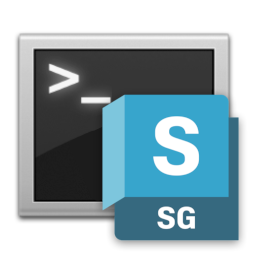
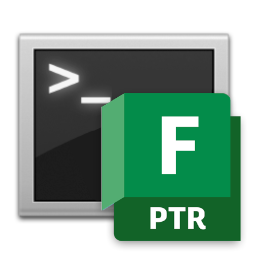
SG-34309 - Rebranding (#28)
* Change all the shotgrid/shotgun occurrences in the repository.

* Change all the SG occurrences in the repository.

* Update logos.

* Update text occurrences.

* Update text.

Changed region(s): [[0.375, 0.3438, 0.9688, 0.9688]]

diff --git a/engine.py b/engine.py
@@ -254,9 +254,10 @@ class ShellEngine(Engine):
             class QTProxy(object):
                 def __getattr__(self, name):
                     raise tank.TankError(
-                        "The SG Toolkit App you are trying to execute requires a full QT "
-                        "environment in order to render its UI. A valid PySide2/PySide/PyQt "
-                        "installation could not be found in your python system path."
+                        "The Flow Production Tracking App you are trying to execute "
+                        "requires a full QT environment in order to render its UI. A valid "
+                        "PySide2/PySide/PyQt installation could not be found in your python "
+                        "system path."
                     )
 
             base = {"qt_core": QTProxy(), "qt_gui": QTProxy(), "dialog_base": None}

diff --git a/SECURITY.md b/SECURITY.md
@@ -4,18 +4,18 @@
 
 At Autodesk, we know that the security of your data is critical to your studio’s
 operation.
-As the industry shifts to the cloud, ShotGrid knows that security and service
+As the industry shifts to the cloud, Flow Production Tracking knows that security and service
 models are more important than ever.
 
 The confidentiality, integrity, and availability of your content is at the top
 of our priority list.
-Not only do we have a team of ShotGrid engineers dedicated to platform security
+Not only do we have a team of Flow Production Tracking engineers dedicated to platform security
 and performance, we are also backed by Autodesk’s security team, also invests
 heavily in the security for broad range of industries and customers.
 We constantly reassess, develop, and improve our risk management program because
 we know that the landscape of security is ever-changing.
 
-If you believe you have found a security vulnerability in any ShotGrid-owned
+If you believe you have found a security vulnerability in any Flow Production Tracking-owned
 repository, please report it to us as described below.
 
 
@@ -32,4 +32,4 @@ configurations, reproduction steps, exploit code, impact, etc.
 
 ## Additional Information
 
-Please check out the [ShotGrid Security White Paper](https://help.autodesk.com/view/SGSUB/ENU/?guid=SG_Administrator_ar_general_security_ar_security_white_paper_html).
+Please check out the [Flow Production Tracking Security White Paper](https://help.autodesk.com/view/SGSUB/ENU/?guid=SG_Administrator_ar_general_security_ar_security_white_paper_html).

diff --git a/README.md b/README.md
@@ -6,11 +6,11 @@
 
 
 ## Documentation
-This repository is a part of the ShotGrid Pipeline Toolkit.
+This repository is a part of the Flow Production Tracking Toolkit.
 
 - For more information about this app and for release notes, *see the wiki section*.
 - For general information and documentation, click here: https://developer.shotgridsoftware.com/d587be80/?title=Integrations+User+Guide
-- For information about ShotGrid in general, click here: https://help.autodesk.com/view/SGSUB/ENU/
+- For information about Flow Production Tracking in general, click here: https://help.autodesk.com/view/SGSUB/ENU/
 
 ## Using this app in your Setup
 All the apps that are part of our standard app suite are pushed to our App Store.
